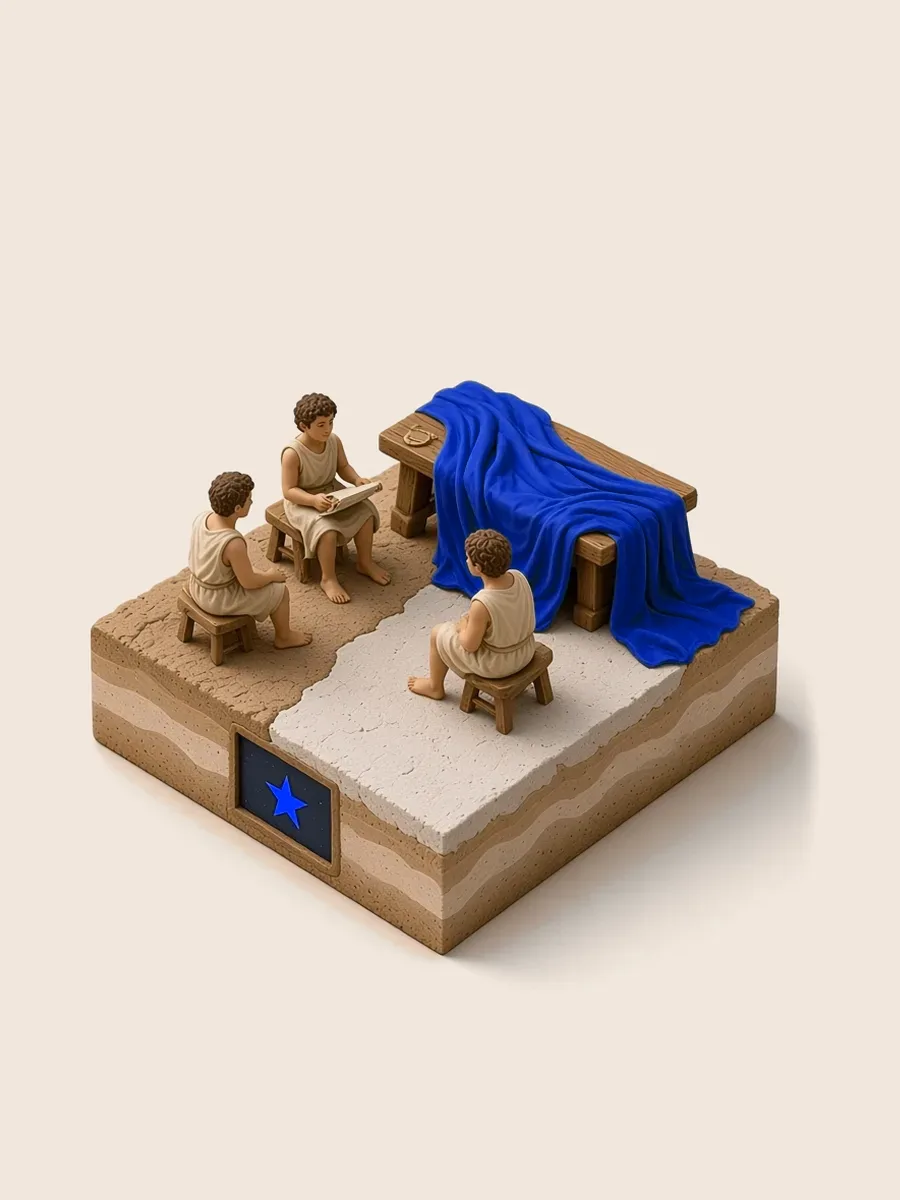
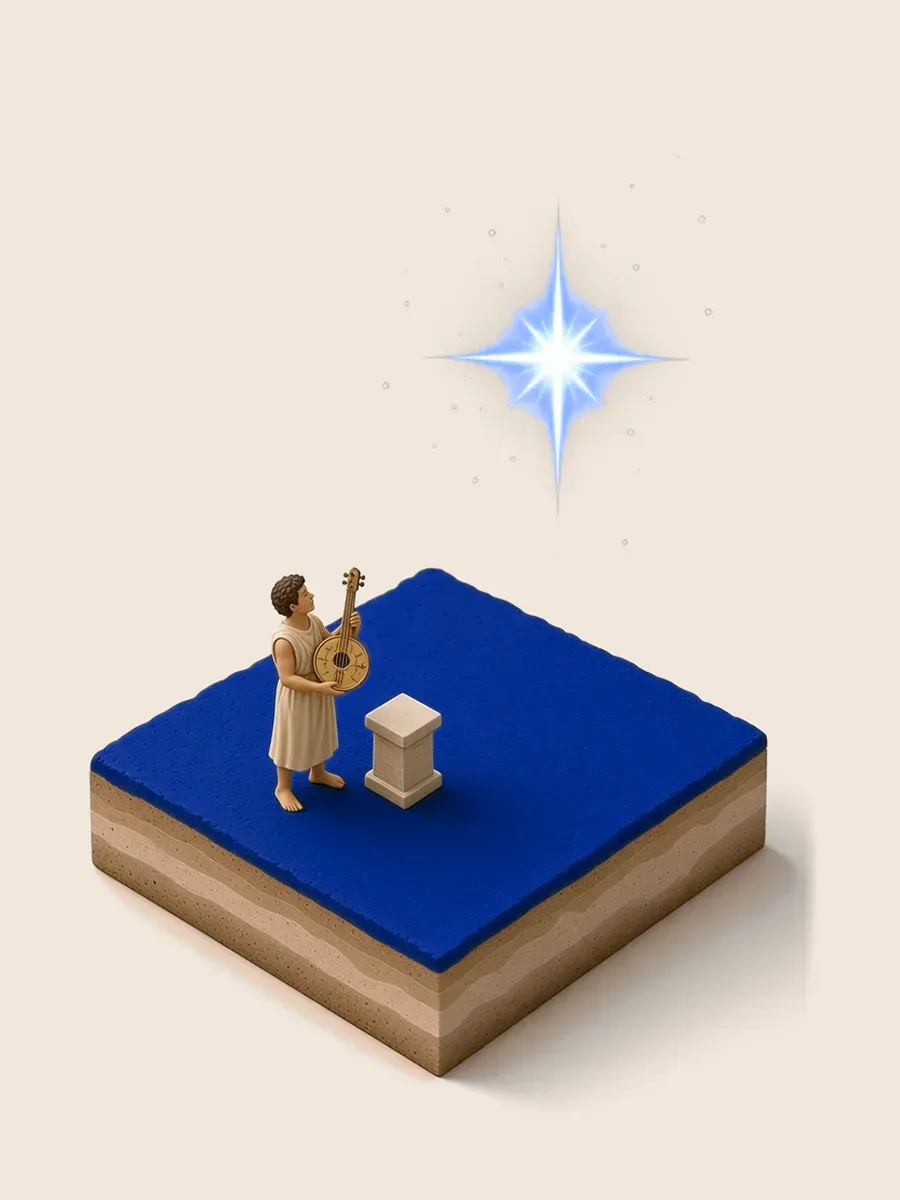
第五批插画：十二张新卡，并重画 ment 与 nov。 (#8)
新卡接到和已有插画同一套文件、缩略图和签名色。有插画的词根一共 90 条。词条列表不改。图鉴仍只叠已收集的。

diff --git a/src/data/rootColors.ts b/src/data/rootColors.ts
@@ -79,16 +79,28 @@ export const rootColors: Record<string, RootColor> = {
   loc: { hue: 29.9, accent: '#D78577', deep: '#7E4239', wash: '#FFEBE7', skyTop: '#FFE0DA', skyBottom: '#FFF5ED', spark: '#87CBD7', steps: ['#FEF9F8', '#FCF3F1', '#FFEBE7', '#FFE4DF', '#FEDAD3', '#FCCEC6', '#F3B4A9', '#E4998D', '#D78577', '#BA6F63', '#7E4239', '#542B24'] },
   loqu: { hue: 24.7, accent: '#D8847D', deep: '#7E413D', wash: '#FFEAE8', skyTop: '#FFDFDC', skyBottom: '#FFF4EE', spark: '#86CBD3', steps: ['#FEF9F9', '#FCF3F2', '#FFEAE8', '#FFE4E1', '#FED9D5', '#FDCDC9', '#F3B3AE', '#E49892', '#D8847D', '#BA6E69', '#7E413D', '#542A27'] },
   mand: { hue: 36.2, accent: '#D78670', deep: '#7D4333', wash: '#FFEBE5', skyTop: '#FFE0D7', skyBottom: '#FEF5EC', spark: '#89CADB', steps: ['#FEF9F8', '#FCF3F1', '#FFEBE5', '#FFE4DD', '#FEDAD0', '#FCCFC2', '#F2B5A4', '#E39A86', '#D78670', '#B9705C', '#7D4333', '#542B20'] },
-  ment: { hue: 229.3, accent: '#4EAAD2', deep: '#0D5E7B', wash: '#E0F4FE', skyTop: '#CEEEFE', skyBottom: '#F2F7FF', spark: '#E4B196', steps: ['#F7FBFD', '#EFF7FB', '#E0F4FE', '#D6F0FC', '#C8E9FA', '#B6E2F7', '#92D0ED', '#6DBBDE', '#4EAAD2', '#3B91B6', '#0D5E7B', '#083E52'] },
+  ment: { hue: 147.5, accent: '#70B078', deep: '#326239', wash: '#E5F5E6', skyTop: '#D7F0D9', skyBottom: '#EDFAF7', spark: '#D7AED5', steps: ['#F8FBF8', '#F1F7F2', '#E5F5E6', '#DDF1DF', '#D2EBD4', '#C4E5C6', '#A6D4AA', '#87C08E', '#70B078', '#5C9764', '#326239', '#1F4125'] },
   mem: { hue: 309.3, accent: '#B18CD0', deep: '#644879', wash: '#F5ECFD', skyTop: '#F0E1FD', skyBottom: '#FEF3FA', spark: '#B0C797', steps: ['#FBFAFD', '#F7F4FB', '#F5ECFD', '#F1E5FC', '#ECDCF9', '#E5D1F6', '#D4B9EB', '#C19FDC', '#B18CD0', '#9876B3', '#644879', '#422F51'] },
   mon: { hue: 277.6, accent: '#8E98DF', deep: '#4A5084', wash: '#ECEFFF', skyTop: '#E2E6FF', skyBottom: '#F9F4FF', spark: '#CABF8B', steps: ['#F9FAFE', '#F4F5FC', '#ECEFFF', '#E6EAFF', '#DCE1FF', '#D1D8FF', '#B9C2F7', '#A1AAE9', '#8E98DF', '#7880C1', '#4A5084', '#303458'] },
   mort: { hue: 289.0, accent: '#9C93DB', deep: '#544D82', wash: '#EFEEFF', skyTop: '#E6E5FF', skyBottom: '#FBF4FD', spark: '#C1C28D', steps: ['#FAFAFE', '#F5F4FC', '#EFEEFF', '#EAE8FF', '#E2DFFE', '#D9D5FD', '#C3BEF4', '#ADA6E6', '#9C93DB', '#857CBE', '#544D82', '#373257'] },
   nat: { hue: 139.4, accent: '#7BAE6E', deep: '#3B6132', wash: '#E8F4E4', skyTop: '#DBEFD6', skyBottom: '#EEFAF5', spark: '#D2B0DB', steps: ['#F9FBF8', '#F2F7F1', '#E8F4E4', '#E0F0DC', '#D5EBD0', '#C9E4C2', '#ADD2A4', '#91BE85', '#7BAE6E', '#67955B', '#3B6132', '#26401F'] },
   nom: { hue: 102.1, accent: '#BEB461', deep: '#60570A', wash: '#F3F1DE', skyTop: '#EDE9CB', skyBottom: '#F3F9EF', spark: '#B6B9EA', steps: ['#FBFBF7', '#F7F6EE', '#F3F1DE', '#EFECD4', '#E8E5C5', '#E1DCB4', '#CFC88F', '#BBB26B', '#BEB461', '#92883D', '#60570A', '#3F390B'] },
-  nov: { hue: 265.0, accent: '#7E9DE0', deep: '#3E5485', wash: '#E9F0FF', skyTop: '#DDE8FF', skyBottom: '#F7F5FF', spark: '#D3BB8A', steps: ['#F9FAFE', '#F2F5FC', '#E9F0FF', '#E1EBFF', '#D6E4FF', '#C9DBFF', '#AEC6F7', '#93AFEA', '#7E9DE0', '#6985C2', '#3E5485', '#283759'] },
+  nov: { hue: 263.1, accent: '#7C9EE0', deep: '#3C5485', wash: '#E8F0FF', skyTop: '#DCE8FF', skyBottom: '#F7F5FF', spark: '#D4BA8A', steps: ['#F9FAFE', '#F2F6FC', '#E8F0FF', '#E1EBFF', '#D5E4FF', '#C8DBFF', '#ACC6F7', '#91AFEA', '#7C9EE0', '#6786C2', '#3C5485', '#273759'] },
   numer: { hue: 174.7, accent: '#49B39A', deep: '#016553', wash: '#E0F6EF', skyTop: '#CDF1E6', skyBottom: '#ECFAFB', spark: '#E3ACC0', steps: ['#F7FCFA', '#EFF8F5', '#E0F6EF', '#D6F2E9', '#C7EDE1', '#B6E7D8', '#91D6C3', '#6BC3AB', '#49B39A', '#379A83', '#016553', '#034336'] },
   par: { hue: 27.4, accent: '#D8847A', deep: '#7E413B', wash: '#FFEAE7', skyTop: '#FFE0DB', skyBottom: '#FFF5ED', spark: '#87CBD5', steps: ['#FEF9F9', '#FCF3F2', '#FFEAE7', '#FFE4E0', '#FED9D4', '#FCCEC7', '#F3B4AB', '#E4998F', '#D8847A', '#BA6F66', '#7E413B', '#542A26'] },
   part: { hue: 75.8, accent: '#D8A861', deep: '#724D0B', wash: '#FAEEDE', skyTop: '#F8E5CB', skyBottom: '#F8F8EC', spark: '#A0C0EB', steps: ['#FCFAF7', '#F9F5EE', '#FAEEDE', '#F8E8D4', '#F4E0C5', '#F0D6B3', '#E2C08F', '#D1A76B', '#D8A861', '#A87E3C', '#724D0B', '#4B330C'] },
+  pati: { hue: 17.5, accent: '#D78286', deep: '#7E4044', wash: '#FFEAEA', skyTop: '#FFDFDF', skyBottom: '#FFF4EF', spark: '#86CCCE', steps: ['#FEF9F9', '#FCF3F3', '#FFEAEA', '#FFE3E3', '#FED9D9', '#FCCDCD', '#F3B3B4', '#E4979A', '#D78286', '#BA6D71', '#7E4044', '#542A2C'] },
+  pel: { hue: 250.6, accent: '#6BA3DD', deep: '#2E5883', wash: '#E5F1FF', skyTop: '#D7EAFF', skyBottom: '#F5F6FF', spark: '#DBB78D', steps: ['#F8FBFE', '#F1F6FC', '#E5F1FF', '#DCEDFF', '#CFE6FF', '#C1DEFE', '#A2CAF5', '#83B4E8', '#6BA3DD', '#578AC0', '#2E5883', '#1D3A58'] },
+  pet: { hue: 355.1, accent: '#D282A1', deep: '#7A4058', wash: '#FFE9F0', skyTop: '#FFDDE9', skyBottom: '#FFF4F3', spark: '#8DCDBB', steps: ['#FDF9FA', '#FBF3F6', '#FFE9F0', '#FEE3EC', '#FBD8E4', '#F9CCDC', '#EEB2C8', '#DE97B2', '#D282A1', '#B56D89', '#7A4058', '#51293A'] },
+  ple: { hue: 84.4, accent: '#D0AC5F', deep: '#6D5106', wash: '#F8EFDD', skyTop: '#F4E6CA', skyBottom: '#F6F8ED', spark: '#A7BEEC', steps: ['#FCFAF7', '#F9F5EE', '#F8EFDD', '#F5EAD3', '#F0E2C4', '#EBD8B2', '#DDC28E', '#CBAB69', '#D0AC5F', '#A2813A', '#6D5106', '#473509'] },
+  prehend: { hue: 49.7, accent: '#D38A61', deep: '#7B4627', wash: '#FFEBE1', skyTop: '#FFE1D1', skyBottom: '#FCF6EC', spark: '#8FC7E2', steps: ['#FDF9F7', '#FBF4F0', '#FFEBE1', '#FEE5D8', '#FCDCCB', '#F9D1BB', '#EFB89B', '#DF9E7A', '#D38A61', '#B6744F', '#7B4627', '#522E18'] },
+  quer: { hue: 102.0, accent: '#BEB461', deep: '#60570A', wash: '#F3F1DE', skyTop: '#EDE9CB', skyBottom: '#F3F9EF', spark: '#B6B9EA', steps: ['#FBFBF7', '#F7F6EE', '#F3F1DE', '#EFECD4', '#E8E5C5', '#E1DCB4', '#CFC88F', '#BBB26B', '#BEB461', '#92883C', '#60570A', '#3F390B'] },
+  sci: { hue: 307.1, accent: '#AF8CD1', deep: '#62487A', wash: '#F4ECFD', skyTop: '#EFE1FD', skyBottom: '#FEF3FA', spark: '#B1C796', steps: ['#FBFAFD', '#F7F4FB', '#F4ECFD', '#F0E6FC', '#EBDCFA', '#E4D2F7', '#D2B9EC', '#BFA0DD', '#AF8CD1', '#9676B5', '#62487A', '#412F52'] },
+  sec: { hue: 130.9, accent: '#87AC65', deep: '#455F2A', wash: '#EAF4E2', skyTop: '#DFEED2', skyBottom: '#EFFAF3', spark: '#CCB2E0', steps: ['#F9FBF8', '#F3F7F0', '#EAF4E2', '#E3F0DA', '#DAEACD', '#CEE2BD', '#B5D09D', '#9BBC7E', '#87AC65', '#729352', '#455F2A', '#2D3F1A'] },
+  serv: { hue: 74.4, accent: '#D9A762', deep: '#734D0C', wash: '#FAEEDE', skyTop: '#F8E5CB', skyBottom: '#F8F8EC', spark: '#9FC1EB', steps: ['#FCFAF7', '#FAF5EE', '#FAEEDE', '#F8E8D4', '#F4E0C5', '#F0D6B4', '#E3BF8F', '#D2A76B', '#D9A762', '#A97D3D', '#734D0C', '#4B330C'] },
+  sign: { hue: 31.0, accent: '#D78576', deep: '#7E4238', wash: '#FFEBE7', skyTop: '#FFE0DA', skyBottom: '#FFF5ED', spark: '#87CAD7', steps: ['#FEF9F8', '#FCF3F1', '#FFEBE7', '#FFE4DE', '#FEDAD3', '#FCCEC5', '#F2B4A8', '#E3998C', '#D78576', '#BA6F62', '#7E4238', '#542B24'] },
+  simil: { hue: 346.5, accent: '#CE83AB', deep: '#77415F', wash: '#FDE9F3', skyTop: '#FDDEED', skyBottom: '#FFF4F4', spark: '#92CDB4', steps: ['#FDF9FB', '#FBF3F7', '#FDE9F3', '#FCE3EF', '#F9D9E9', '#F6CDE2', '#EBB3D0', '#DB98BB', '#CE83AB', '#B16E92', '#77415F', '#4F2A3F'] },
+  solv: { hue: 158.7, accent: '#5FB286', deep: '#226444', wash: '#E3F5EA', skyTop: '#D2F1DE', skyBottom: '#ECFAF9', spark: '#DDADCD', steps: ['#F8FBF9', '#F0F8F3', '#E3F5EA', '#DAF2E3', '#CDECD9', '#BDE6CD', '#9CD5B4', '#7BC19A', '#5FB286', '#4C9870', '#226444', '#15422C'] },
 };
 
 export function hasSampledColor(id: string): boolean {

diff --git a/src/data/provisional.ts b/src/data/provisional.ts
@@ -61,6 +61,18 @@ export const batchIllustrated = new Set([
   'numer',
   'par',
   'part',
+  'pati',
+  'pel',
+  'pet',
+  'ple',
+  'prehend',
+  'quer',
+  'sci',
+  'sec',
+  'serv',
+  'sign',
+  'simil',
+  'solv',
 ]);
 
 const batchAlt: Record<string, string> = {
@@ -90,16 +102,28 @@ const batchAlt: Record<string, string> = {
   loc: '记忆宫殿的平面上插着一枚巨大的红色地图钉，演说者把钉按在画了圈的地点上。',
   loqu: '演说者张着嘴、张开手臂正在说话，旁边有书记员和一张剧场面具。',
   mand: '军官把封好的卷轴交到年轻人手中，披风是朱红的。',
-  ment: '思考的人面前有一块发亮的心智蜡板，导师指向一座神庙。',
+  ment: '薄荷色镶嵌地面上，青年拿着蜡板，导师指向神庙。',
   mem: '一家人站在纪念胸像前，铺着淡紫的布，放着花。',
   mon: '鹅在报警，旁边是朱诺·摩涅塔的钱币和神庙。',
   mort: '沙漏旁边，一株枯萎，一株新芽。',
   nat: '母羊身边站着刚出生的羊羔，土层里有种子在发芽。',
   nom: '婴儿命名的日子，脖子上挂着金色的护符。',
-  nov: '一颗新星，旁边是翻新的房子和一块新布。',
+  nov: '整块底座是钴蓝的夜色地面，上面是一颗很大的新星。',
   numer: '柜台上摆着算盘，有人在数珠子。',
   par: '出征前，有人在穿戴甲胄，把一切准备好。',
   part: '一条划了格的面包被分成几份，正在分给别人。',
+  pati: '酒红的榻上，病人在忍受，医生按着他的手腕。',
+  pel: '桨手正在划船，把船推过青色的海面。',
+  pet: '跑者冲向品红跑道尽头的终点柱。',
+  ple: '农夫把琥珀色的粮食倒进陶罐，粮食漫出来。',
+  prehend: '渔夫双手抓住一条鱼，旁边堆着铜色的网。',
+  quer: '提灯的人在被黄光照亮的地上寻找。',
+  sci: '学者指着一块紫色的星图板，旁边有地球仪。',
+  sec: '剪刀把一只昆虫切成三段，地面是黄绿色的。',
+  serv: '守望的人穿着青铜色长袍，在城垛上举着火把。',
+  sign: '旗手举起一面巨大的深红军旗，站在红砖上。',
+  simil: '两座几乎一样的雕像立在成对的基座上。',
+  solv: '有人在解开绳结，旁边是一只宽口的青绿碗。',
 };
 
 function originOf(language: string): Origin {

diff --git a/src/lib/match.test.ts b/src/lib/match.test.ts
@@ -13,12 +13,12 @@ const authored = illustrated.filter((root) => !batchIllustrated.has(root.id));
 const batch = illustrated.filter((root) => batchIllustrated.has(root.id));
 
 describe('dataset', () => {
-  it('ships about 250 roots, with 78 paintings and the original 42 still fully written', () => {
+  it('ships about 250 roots, with 90 paintings and the original 42 still fully written', () => {
     expect(roots.length).toBe(250);
-    expect(illustrated).toHaveLength(78);
+    expect(illustrated).toHaveLength(90);
     expect(authored).toHaveLength(42);
-    expect(batch).toHaveLength(36);
-    expect(cream.length).toBe(roots.length - 78);
+    expect(batch).toHaveLength(48);
+    expect(cream.length).toBe(roots.length - 90);
     const words = roots.flatMap((root) => root.words.map((word) => word.word.toLowerCase()));
     expect(words.length).toBeGreaterThanOrEqual(300);
     expect(new Set(words).size).toBe(words.length);
@@ -119,6 +119,8 @@ describe('lookup', () => {
     expect(lookup('pos')).toMatchObject({ kind: 'root', root: { id: 'pos', illustrated: true } });
     expect(lookup('include')).toMatchObject({ kind: 'word', hit: { word: 'include', root: { id: 'clud', illustrated: true } } });
     expect(lookup('mortal')).toMatchObject({ kind: 'word', hit: { word: 'mortal', root: { id: 'mort', illustrated: true } } });
+    expect(lookup('service')).toMatchObject({ kind: 'word', hit: { word: 'service', root: { id: 'serv', illustrated: true } } });
+    expect(lookup('novel')).toMatchObject({ kind: 'word', hit: { word: 'novel', root: { id: 'nov', illustrated: true } } });
     expect(lookup('compose')).toMatchObject({ kind: 'word', hit: { word: 'compose', root: { id: 'pos' } } });
     expect(lookup('microbe')).toMatchObject({ kind: 'word', hit: { root: { id: 'micro', illustrated: false } } });
     expect(lookup('ped')).toMatchObject({ kind: 'root', root: { id: 'ped', illustrated: true } });

diff --git a/README.md b/README.md
@@ -67,7 +67,7 @@ python3 scripts/depth_maps.py
 
 插画与代码都按 [MIT](LICENSE) 授权。
 
-图鉴里现在有 250 条词根。78 条有插画；其余先用奶油色卡片，词源故事已经写上，插画以后一张张补。
+图鉴里现在有 250 条词根。90 条有插画；其余先用奶油色卡片，词源故事已经写上，插画以后一张张补。
 
 ## 如何增加一条词根
 
